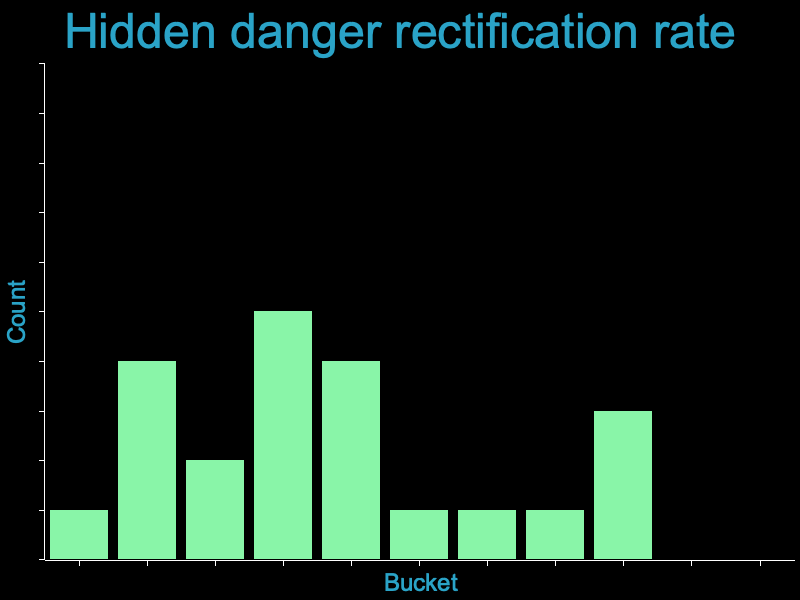
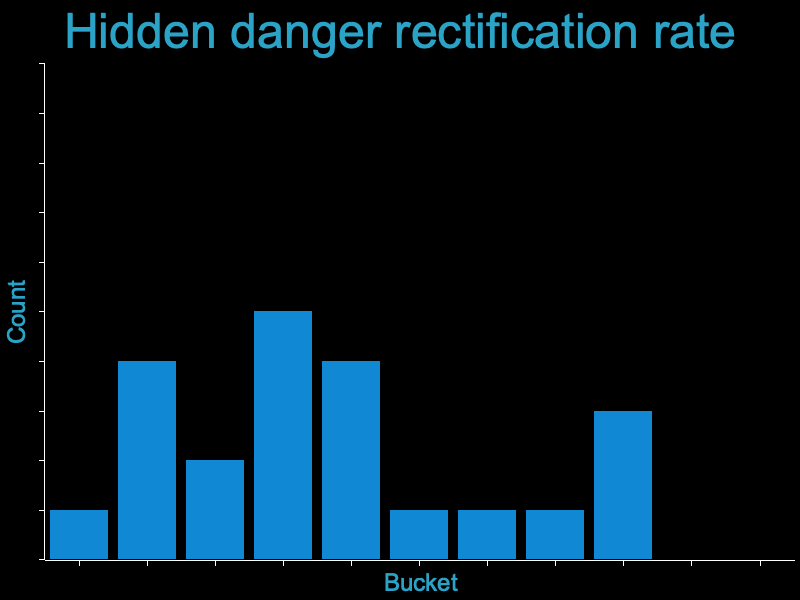
feat: init bar

Changed region(s): [[0.0625, 0.51, 0.8125, 0.93]]

diff --git a/src/bar_chart.rs b/src/bar_chart.rs
@@ -18,6 +18,32 @@ pub fn render_bar_charts() -> Element<'static, Message> {
     dashboard.into()
 }
 
+fn render_bar_chart_container() -> Element<'static, Message> {
+    let url = "images/bar_chart_one.png";
+    let img = image::Handle::from_path(url);
+    let time_container = row![container(column![image(img)
+        .width(Length::Fill)
+        .height(Length::Fill)])
+    .width(Length::FillPortion(23))
+    .height(Length::Fill)
+    .center_x()];
+
+    time_container.into()
+}
+
+fn render_bar_cute_chart_container() -> Element<'static, Message> {
+    let url = "images/bar_chart_two.png";
+    let img = image::Handle::from_path(url);
+    let time_container = row![container(column![image(img)
+        .width(Length::Fill)
+        .height(Length::Fill)])
+    .width(Length::FillPortion(23))
+    .height(Length::Fill)
+    .center_x()];
+
+    time_container.into()
+}
+
 fn render_line_chart_container() -> Element<'static, Message> {
     let time_container = row![container(column![
         text("Time").size(20),
@@ -32,34 +58,7 @@ fn render_line_chart_container() -> Element<'static, Message> {
     time_container.into()
 }
 
-fn render_bar_chart_container() -> Element<'static, Message> {
-    let url = "images/bar_chart_one.png";
-    let img = image::Handle::from_path(url);
-    let time_container = row![container(column![image(img)
-        .width(Length::Fill)
-        .height(Length::Fill)])
-    .width(Length::FillPortion(23))
-    .height(Length::Fill)
-    .center_x()];
-
-    time_container.into()
-}
-
 fn render_pie_chart_container() -> Element<'static, Message> {
-    let time_container = row![container(column![
-        text("Time").size(20),
-        horizontal_space(),
-        text("00:00:00"),
-    ])
-    .width(Length::FillPortion(23))
-    .height(Length::Fill)
-    .center_x()
-    .style(dashbord_time_container_style)];
-
-    time_container.into()
-}
-
-fn render_bar_cute_chart_container() -> Element<'static, Message> {
     let time_container = row![container(column![
         text("Time").size(20),
         horizontal_space(),

diff --git a/src/generate_charts.rs b/src/generate_charts.rs
@@ -3,13 +3,13 @@ use plotters::style::{RGBAColor, RGBColor};
 
 pub fn generate_all_plots() {
     draw_bar_chart_one();
-    draw_dashboard_one();
+    draw_bar_chart_two();
 }
 
 fn draw_bar_chart_one() {
     let width = 800;
     let height = 600;
-    let color = RGBColor(137, 245, 168); // 绿色
+    let color = RGBColor(16, 136, 212); // 绿色
     let background = RGBAColor(255, 255, 255, 0.0); // 透明底色
     let data = [
         0u32, 1, 1, 1, 4, 2, 5, 7, 8, 6, 4, 2, 1, 8, 3, 3, 3, 4, 4, 3, 3, 8,
@@ -22,6 +22,7 @@ fn draw_bar_chart_one() {
         background,
         &data,
         "images/bar_chart_one.png",
+        "Hidden danger rectification rate",
     );
 
     match result {
@@ -30,4 +31,27 @@ fn draw_bar_chart_one() {
     }
 }
 
-fn draw_dashboard_one() {}
+fn draw_bar_chart_two() {
+    let width = 800;
+    let height = 600;
+    let color = RGBColor(137, 245, 168); // 绿色
+    let background = RGBAColor(255, 255, 255, 0.0); // 透明底色
+    let data = [
+        0u32, 2, 8, 1, 8, 2, 5, 4, 8, 5, 1, 2, 3, 6, 7, 2, 1, 2, 4, 5, 6, 1,
+    ];
+
+    let result = draw_bar_chart(
+        width,
+        height,
+        color,
+        background,
+        &data,
+        "images/bar_chart_two.png",
+        "Hidden danger status",
+    );
+
+    match result {
+        Ok(path) => println!("Bar bar_chart_two: {}", path),
+        Err(e) => eprintln!("Error: {}", e),
+    }
+}

diff --git a/src/main.rs b/src/main.rs
@@ -1,6 +1,7 @@
 extern crate charts;
 
 mod bar_chart;
+mod clock;
 mod cus_dashboard;
 mod dashboard;
 mod generate_charts;
@@ -8,9 +9,9 @@ mod layout;
 mod pie_chart;
 mod solar;
 mod views;
-mod clock;
 
 pub use bar_chart::render_bar_charts;
+pub use clock::Clock;
 pub use cus_dashboard::Dashboard;
 pub use dashboard::render_dashboard;
 use iced::Font;
@@ -19,13 +20,15 @@ pub use layout::Message;
 pub use pie_chart::render_pie_charts;
 pub use solar::State;
 use std::thread;
-pub use clock::Clock;
 
 fn main() -> iced::Result {
     // 创建一个新的线程来生成所有的图表
     let handle = thread::spawn(|| {
         generate_charts::generate_all_plots();
     });
+
+    // 等待图表生成线程完成
+    handle.join().unwrap();
 
     // 在主线程中运行 Iced 程序
     let iced_result = iced::program(Layout::title, Layout::update, Layout::view)
@@ -34,9 +37,6 @@ fn main() -> iced::Result {
         .font(include_bytes!("../fonts/icons.ttf").as_slice())
         .default_font(Font::MONOSPACE)
         .run();
-
-    // 等待图表生成线程完成
-    handle.join().unwrap();
 
     iced_result
 }

diff --git a/packages/charts/src/bar_chart.rs b/packages/charts/src/bar_chart.rs
@@ -9,6 +9,7 @@ pub fn draw_bar_chart(
     background: RGBAColor,
     data: &[u32],
     output_path: &str,
+    title: &str
 ) -> Result<String, Box<dyn std::error::Error>> {
     let root = BitMapBackend::new(output_path, (width, height)).into_drawing_area();
 
@@ -19,7 +20,7 @@ pub fn draw_bar_chart(
         .y_label_area_size(40)
         .margin(5)
         .caption(
-            "Hidden danger rectification rate",
+            title,
             ("sans-serif", 60.0)
                 .into_font()
                 .color(&RGBColor(42, 163, 199)),
